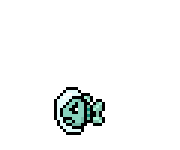
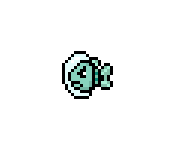
Thecollision FIIIX
THis one is brainhurting

Changed region(s): [[0.2778, 0.32, 0.6389, 0.9067]]

diff --git a/VirtualGameConsoleEmpty/Main.cpp b/VirtualGameConsoleEmpty/Main.cpp
@@ -9,15 +9,29 @@
 
 using namespace std;
 
+static VGCFont mFont;
 static Sputnik *sputnik;
+
+void renderLife() {
+	ostringstream output;
+	output << "Life: " << sputnik->getHealth();
+	const string text = output.str();
+	const VGCVector position(0, 0);
+	const VGCAdjustment adjustment(0.0, 0.0);
+
+	const VGCColor fontColor = VGCColor(255, 76, 186, 160);
+	VGCDisplay::renderString(mFont, text, fontColor, position, adjustment);
+}
 
 int VGCMain(const VGCStringVector &arguments) {
 	// Below is the window and window size
 	const std::string applicationName = "Sputnik: the game";
-	const int DISPLAY_WIDTH = 800;
+	const int DISPLAY_WIDTH = 807;
 	const int DISPLAY_HEIGHT = 557;
 	static const double FRAMES_PER_SECOND = 120;
 	VGCVirtualGameConsole::initialize(applicationName, DISPLAY_WIDTH, DISPLAY_HEIGHT);
+
+	mFont = VGCDisplay::openFont("Billo Normal", 20);
 
 	GameObjectsVector GOVector;
 
@@ -43,6 +57,7 @@ int VGCMain(const VGCStringVector &arguments) {
 			{
 				GOVector[i]->render();
 			}
+			renderLife();
 
 			VGCDisplay::endFrame();
 		}
@@ -65,8 +80,13 @@ int VGCMain(const VGCStringVector &arguments) {
 		}  
 
 		VGCVirtualGameConsole::endLoop();
+
+		if (sputnik->isAlive == false) {
+			break;
+		}
 	}
 	VGCClock::closeTimer(timer);
+	VGCDisplay::closeFont(mFont);
 	// Stop the program
 	for (unsigned int i = 0; i < GOVector.size(); i++)
 	{
@@ -80,15 +100,7 @@ int VGCMain(const VGCStringVector &arguments) {
 	
 }
 
-void renderLife() {
-	ostringstream output;
-	output << "Life: " << sput->getLife();
-	const string text = output.str();
-	const VGCVector position(0, 0);
-	const VGCAdjustment adjustment(0.0, 0.0);
 
-	VGCDisplay::renderString(mFont, text, fontColor, position, adjustment);
-}
 
 //My old hello world below
 /*
@@ -103,6 +115,7 @@ int VGCMain(const VGCStringVector &arguments){
 	const int FONT_SIZE = 48;
 	//here's the font "open"
 	VGCFont font = VGCDisplay::openFont("Times New Roman", FONT_SIZE);
+
 	//the gameloop!
 	while (VGCVirtualGameConsole::beginLoop()) {
 		// inform VGC about the beginning and end of the rendering step of the game loop. 

diff --git a/VirtualGameConsoleEmpty/Sputnik.cpp b/VirtualGameConsoleEmpty/Sputnik.cpp
@@ -5,7 +5,7 @@ using namespace std;
 
 static const int HEALTH = 30;
 static const int DAMAGE = 1;
-static const int RADIUS = 32;
+static const int RADIUS = 40;
 static const int speed = 7;
 static const int height = 40;
 static const int width = 40;
@@ -21,6 +21,7 @@ Sputnik::Sputnik(GameObjectsVector* gameObjects)
 	mReload(VGCClock::openTimer(RELOAD))
 {
 	mCategory = FRIEND;
+	mType = SPUTNIK;
 	mRadius = RADIUS;
 	mHealth = HEALTH;
 }
@@ -46,6 +47,7 @@ void Sputnik::render() {
 void Sputnik::tick() {
 	move();
 	shoot();
+	detectHits();
 }
 
 void Sputnik::finalize() {
@@ -93,20 +95,25 @@ void Sputnik::shoot()
 		VGCClock::reset(mReload);
 	}
 }
-/*
+
 void Sputnik::detectHits() {
 	for (unsigned int i = 0; i < mGameObjects->size(); i++)
 	{
 		GameObject* obj = (*mGameObjects)[i];
 
-		if (detectHit(obj))
+		if (obj->getType() == FISHDROID)
 		{
-			isAlive = false;
-			obj->isAlive = false;
+			volatile VGCVector pos = obj->getPosition();
+
+			if (detectHit(obj))
+			{
+				damage(5);
+				obj->isAlive = false;
+			}
 		}
 	}
 }
-*/
+
 
 void Sputnik::damage(int damage) {
 	mHealth -= damage;

diff --git a/VirtualGameConsoleEmpty/GameObject.h b/VirtualGameConsoleEmpty/GameObject.h
@@ -7,6 +7,7 @@ class GameObject
 public:
 	enum Category {FRIEND, ENEMY};
 	enum Layer {BACKGROUND, FOREGROUND}; //I guess I don't have this atm
+	enum Type {SPUTNIK, FISHDROID, BULLET};
 	typedef std::vector<GameObject*> GameObjectVector; 
 	GameObject(GameObjectsVector* gameObjects);
 	virtual ~GameObject();
@@ -15,6 +16,7 @@ public:
 	virtual VGCVector getPosition();
 	virtual int getRadius();
 	virtual int getHealth();
+	Type getType();
 	//virtual void hit(int damage);
 	virtual bool detectHit(GameObject * go);
 	virtual void damage(int damage) = 0;
@@ -27,6 +29,7 @@ protected:         //Middleground for public and private: everything connected t
 	VGCVector mPosition;
 	Category mCategory;
 	Layer mLayer;
+	Type mType;
 	int mRadius;
 	int mHealth;
 };

diff --git a/VirtualGameConsoleEmpty/Fishdroids.cpp b/VirtualGameConsoleEmpty/Fishdroids.cpp
@@ -33,8 +33,9 @@ Fishdroids::Fishdroids(GameObjectsVector* gameObjects, const VGCVector &position
 {
 	initialize();
 	mCategory = ENEMY;
+	mType = FISHDROID;
 	mRadius = RADIUS;
-	mHealth = 3;
+	mHealth = 1;
 }
 
 
@@ -67,6 +68,11 @@ void Fishdroids::move() {
 	}
 	mPosition.setX(x);
 	mPosition.setY(y);
+
+	if (y > VGCDisplay::getHeight())
+	{
+		isAlive = false;
+	}
 
 	}
 	/*
@@ -117,8 +123,6 @@ void Fishdroids::render() {
 	VGCAdjustment adjustment(0.5, 0.5);
 	VGCDisplay::renderImage(mImage, index, mPosition, adjustment);
 }
-
-
 
 void Fishdroids::finalize() {
 	VGCClock::closeTimer(mReload);

diff --git a/VirtualGameConsoleEmpty/Bullet.cpp b/VirtualGameConsoleEmpty/Bullet.cpp
@@ -12,6 +12,7 @@ Bullet::Bullet(GameObjectsVector* gameObjects, int playerX, int playerY, VGCVect
 {
 	mPosition = VGCVector(playerX, playerY);
 	mCategory = friendly ? FRIEND : ENEMY;
+	mType = BULLET;
 	mDirection = direction;
 	mImage = VGCDisplay::openImage(textureName, 1, 1);
 	mRadius = 2;
@@ -64,8 +65,6 @@ void Bullet::move()
 	int y = mPosition.getY();
 	mPosition.setY(y);
 	mPosition.setX(x);
-
-	
 
 	// Delete if offscreen
 	if (y < 0)

diff --git a/VirtualGameConsoleEmpty/GameObject.cpp b/VirtualGameConsoleEmpty/GameObject.cpp
@@ -33,11 +33,15 @@ int GameObject::getHealth()
 	return mHealth;
 }
 
+GameObject::Type GameObject::getType() {
+	return mType;
+}
+
 bool GameObject::detectHit(GameObject *go)
 {
 	if (go->getCategory() != mCategory)
 	{
-		VGCVector isHit = go->getPosition() - mPosition;
+		VGCVector isHit = go->getPosition() - this->getPosition();
 
 		//formula for collision
 		const int a = isHit.getX();

diff --git a/VirtualGameConsoleEmpty/Sputnik.h b/VirtualGameConsoleEmpty/Sputnik.h
@@ -11,7 +11,7 @@ public:
 	 void tick() override;     
 	 void render() override;   
 	 void finalize() override;
-	 //void detectHits();
+	 void detectHits();
 	 void damage(int damage);
 	 void move();
 	 void shoot();
